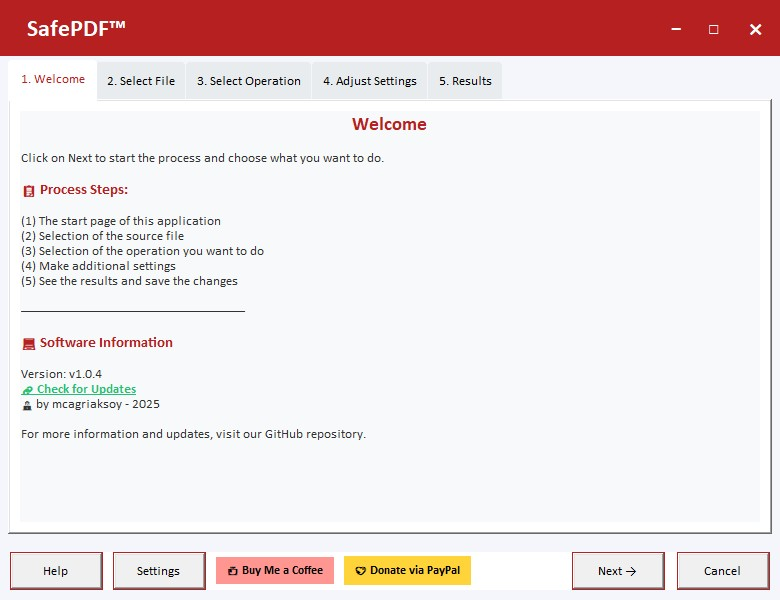
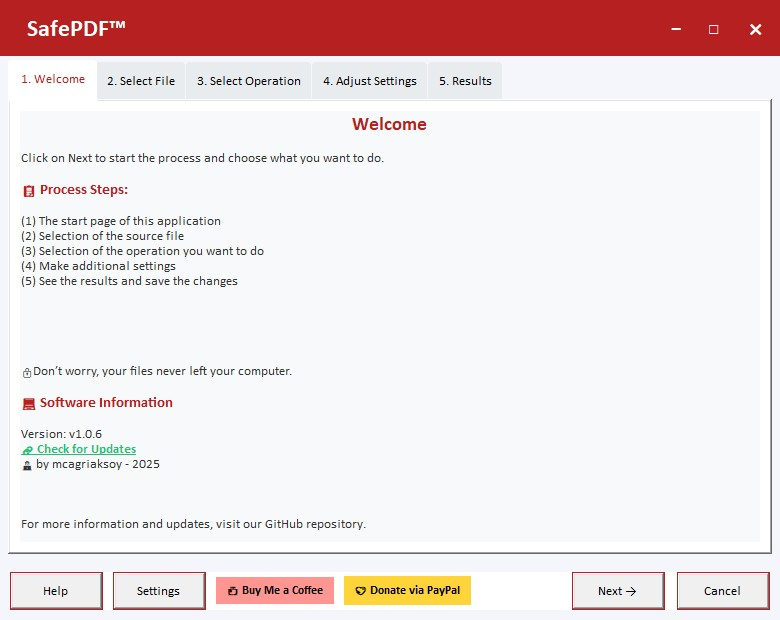
Images for new release updated, how to use gif added.

diff --git a/README.md b/README.md
@@ -32,6 +32,10 @@ Medium article: https://medium.com/dev-genius/the-untold-security-concerns-of-on
 ![Main Window](img/UI_v1.jpg)
 ![Operations Window](img/UI_v1_p2.jpg)
 
+### How to use?
+
+![How to Use?](img/HowToUse.gif)
+
 ## Download URL
 <a href="https://github.com/mcagriaksoy/SafePDF/releases/" download>
   <img src="https://img.shields.io/badge/Download-SafePDF_win64_x86.zip-blue?style=for-the-badge" alt="Download SafePDF_win64_x86.zip">
